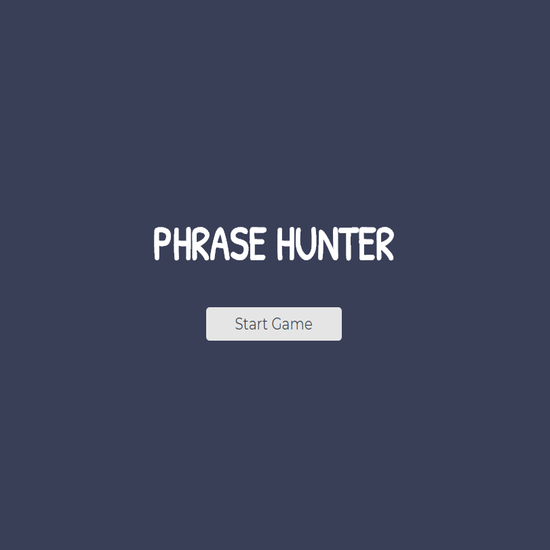
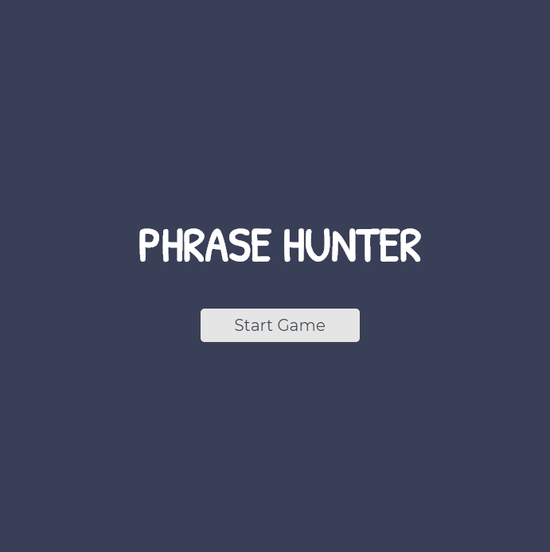
npm start now opens in browser automatically.  Updated thumbnails to better sizes

diff --git a/README.md b/README.md
@@ -48,4 +48,7 @@
 
 Updated color scheme and fonts.
 
-TODO: Add a Landing page with Profile Photo as BG and a short intro and link to index.
+### Things to add
+- landing page
+- direct link to a resume with download
+                
